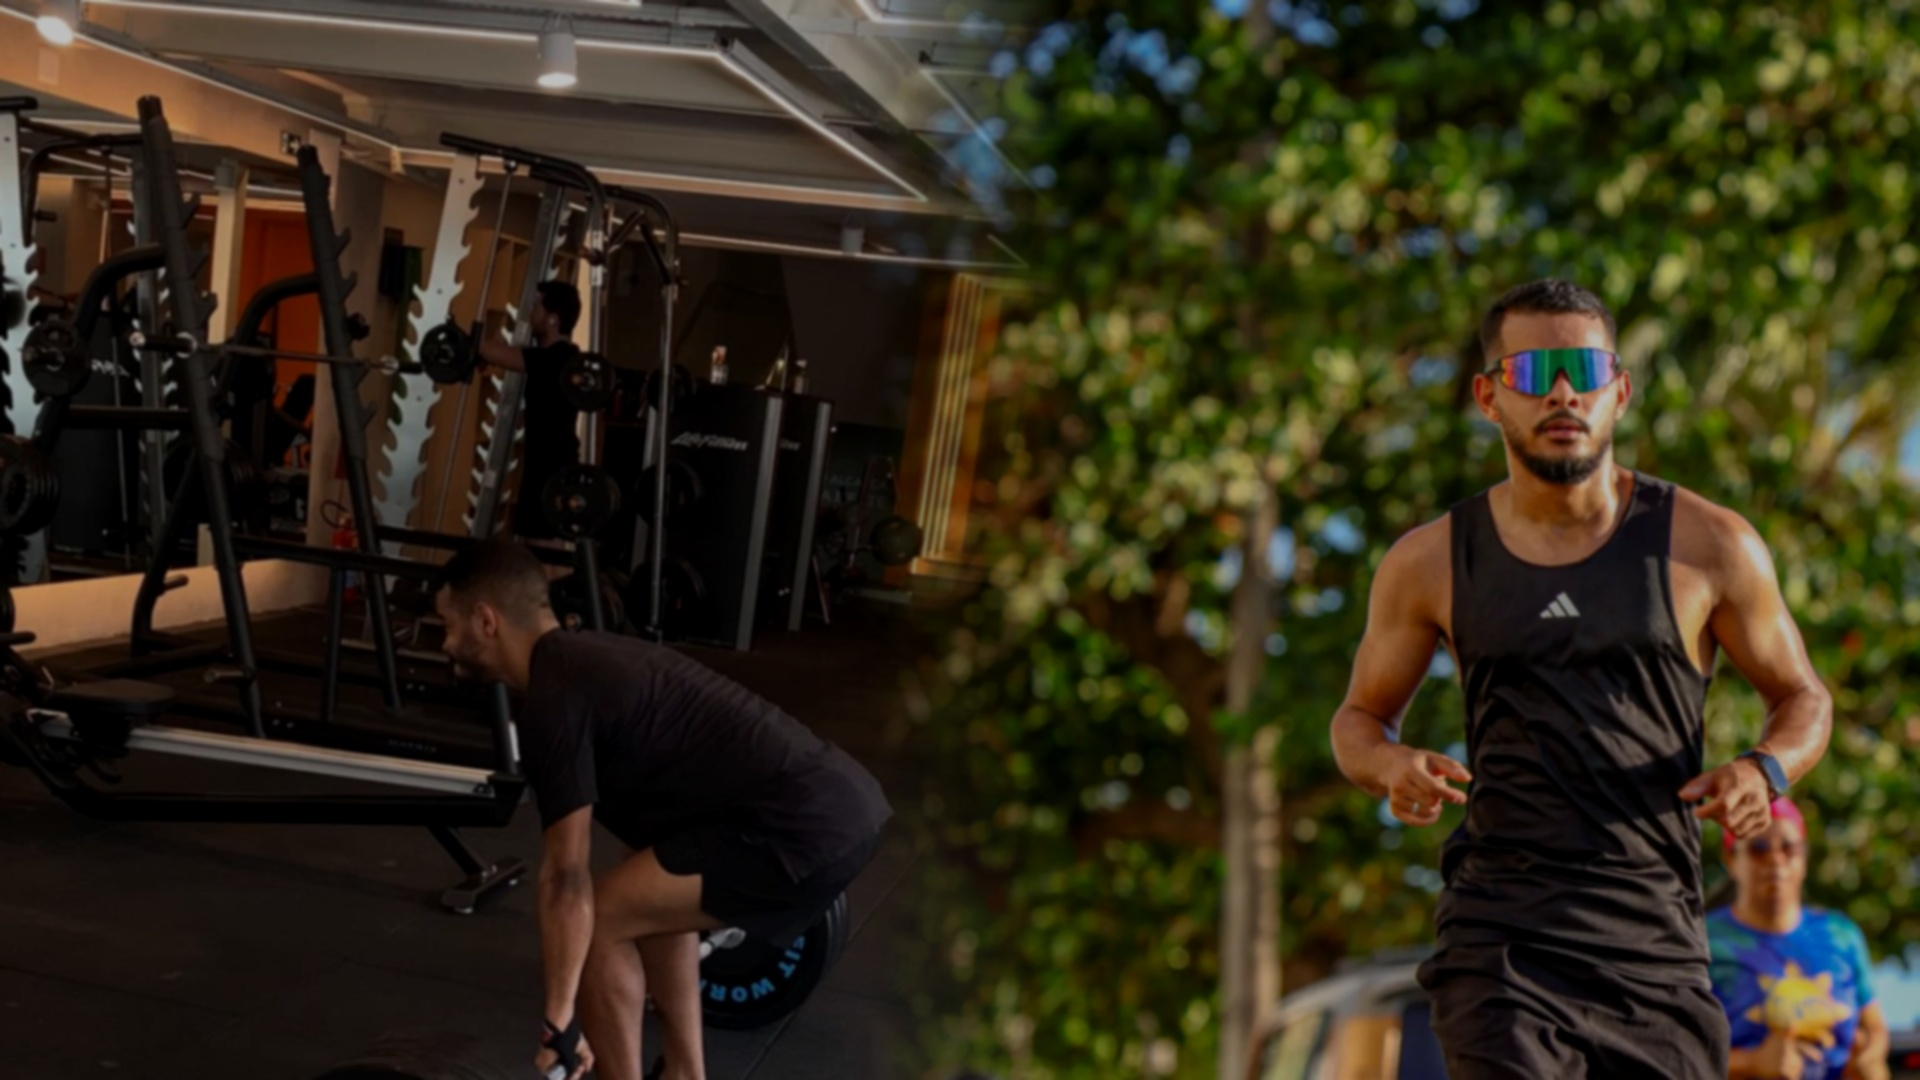
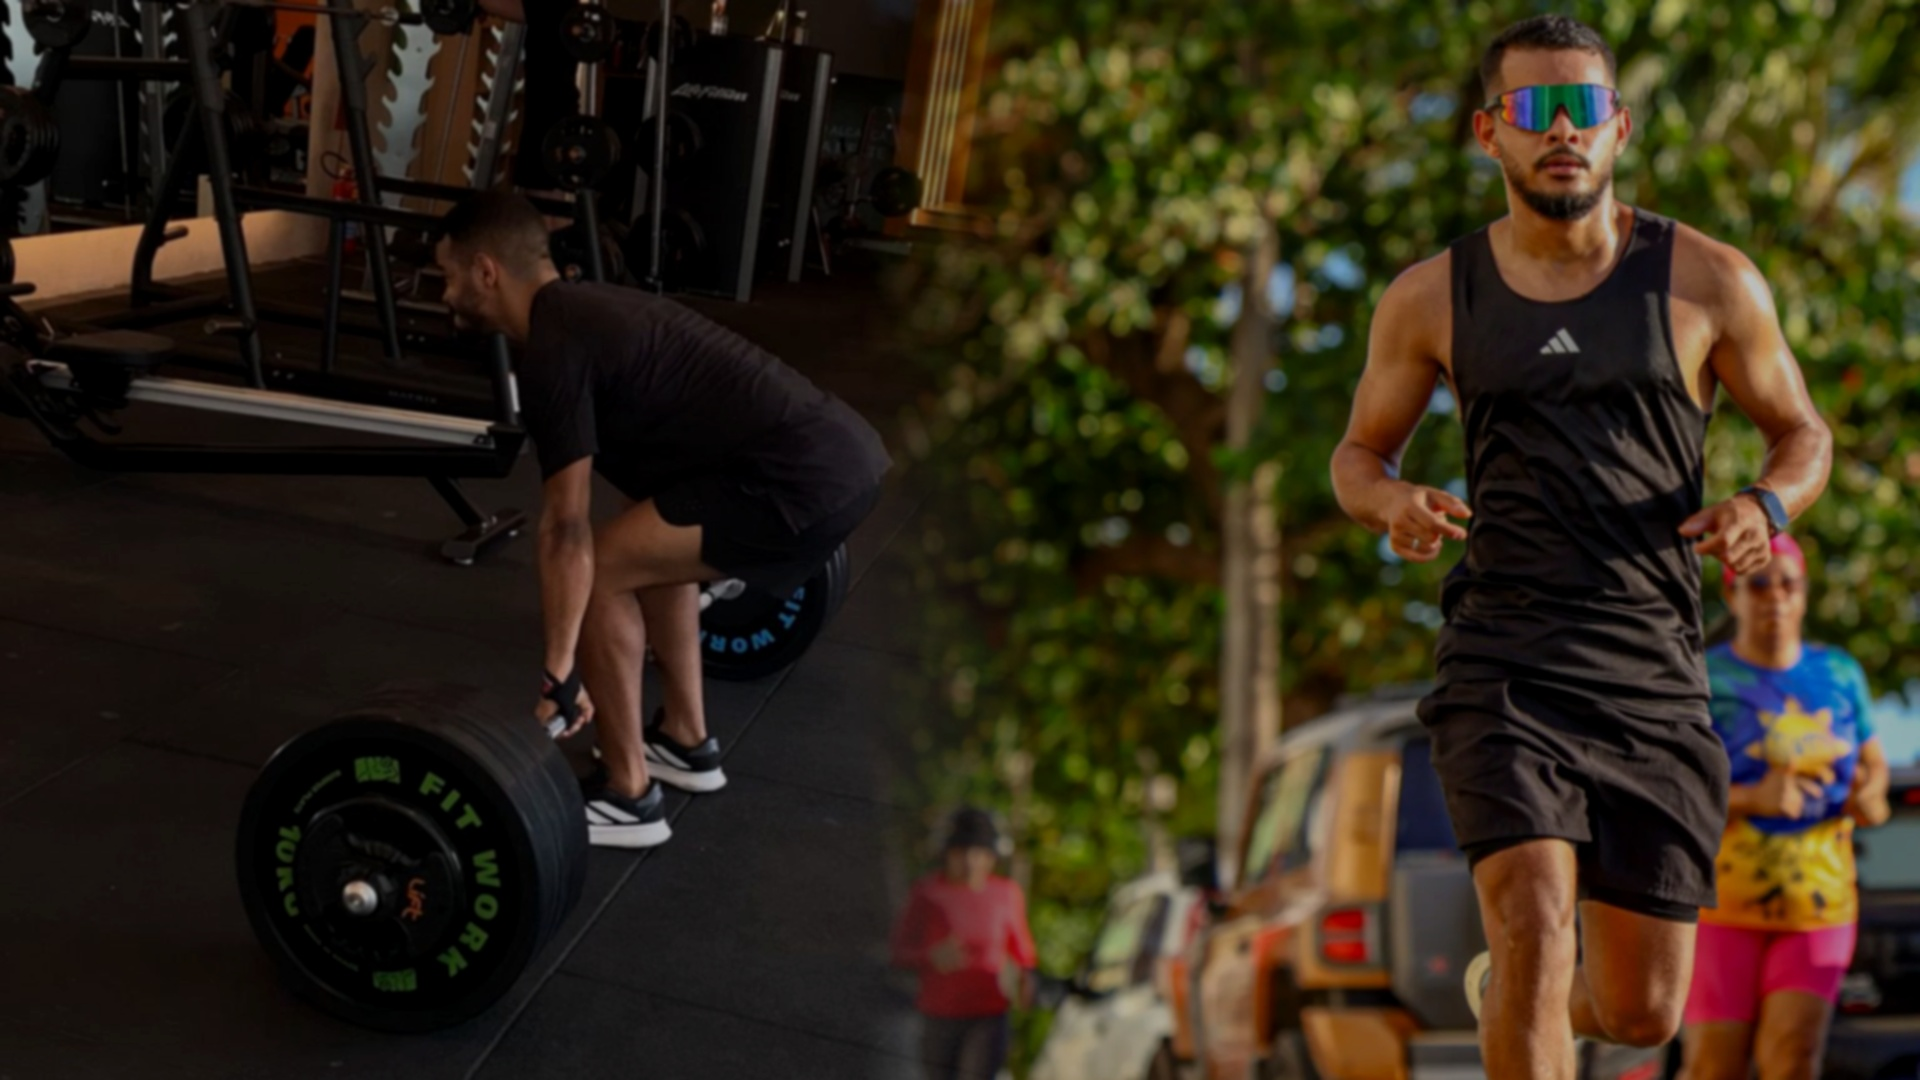
fix: melhorar centralização da academia e remover blur do mobile
- Academia agora totalmente centralizada (mostra mais a pessoa)
- Banner mobile sem blur (mais nítido)
- Escurecimento mobile reduzido para 75% (mais claro)
- Transparência via overlay CSS mantida

diff --git a/pedro_personal_trainer/client/src/pages/Home.tsx b/pedro_personal_trainer/client/src/pages/Home.tsx
@@ -117,7 +117,7 @@ export default function Home() {
             className="block md:hidden w-full h-full object-cover object-top"
           />
           {/* Overlay de transparência escura para melhorar legibilidade */}
-          <div className="absolute inset-0 bg-black/50"></div>
+          <div className="absolute inset-0 bg-black/50 md:bg-black/50"></div>
         </div>
 
         <div className="container mx-auto relative z-10">
